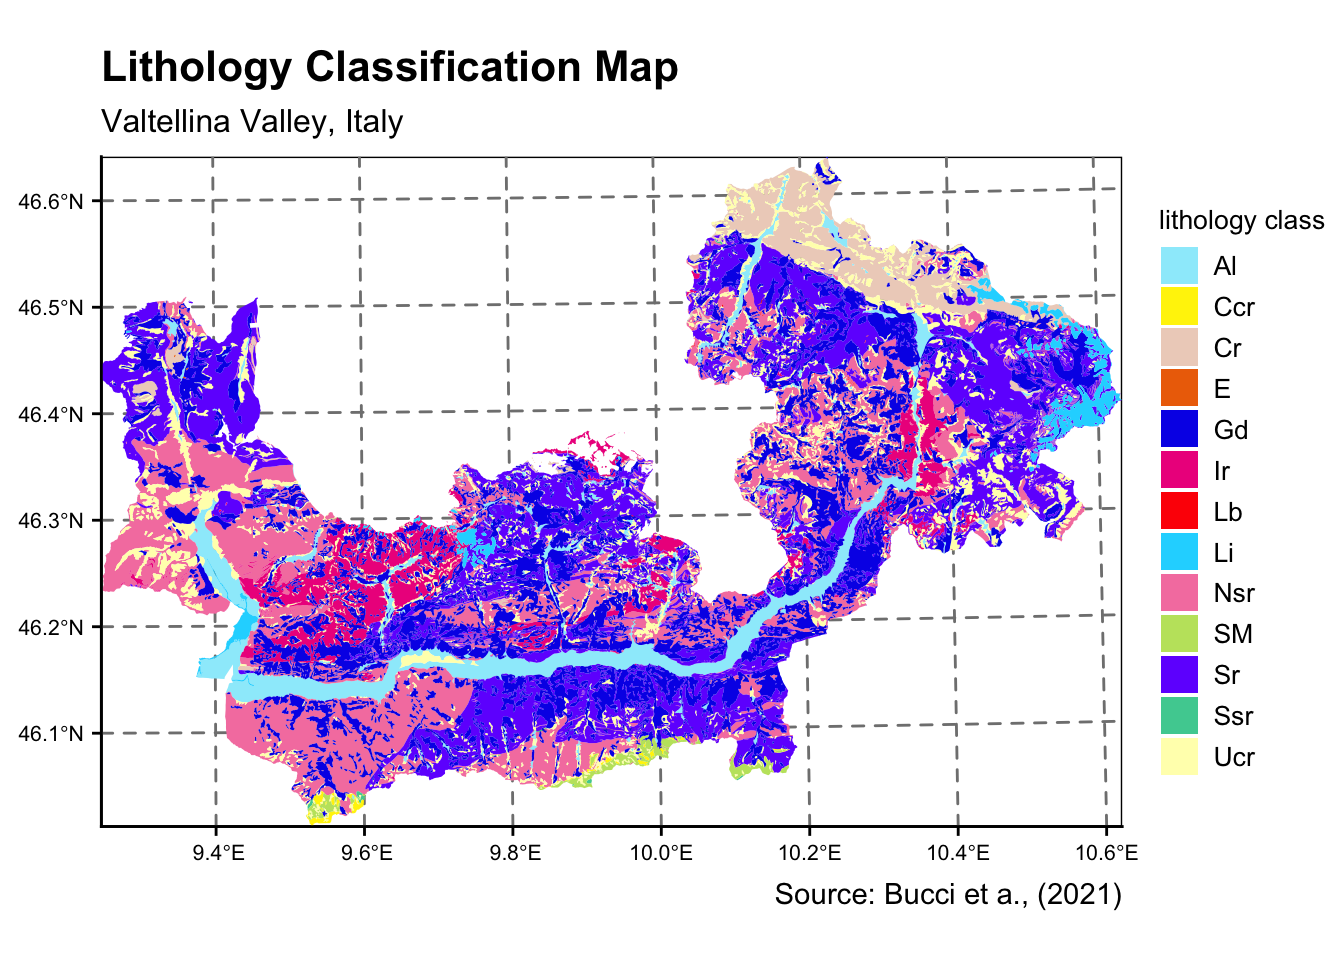
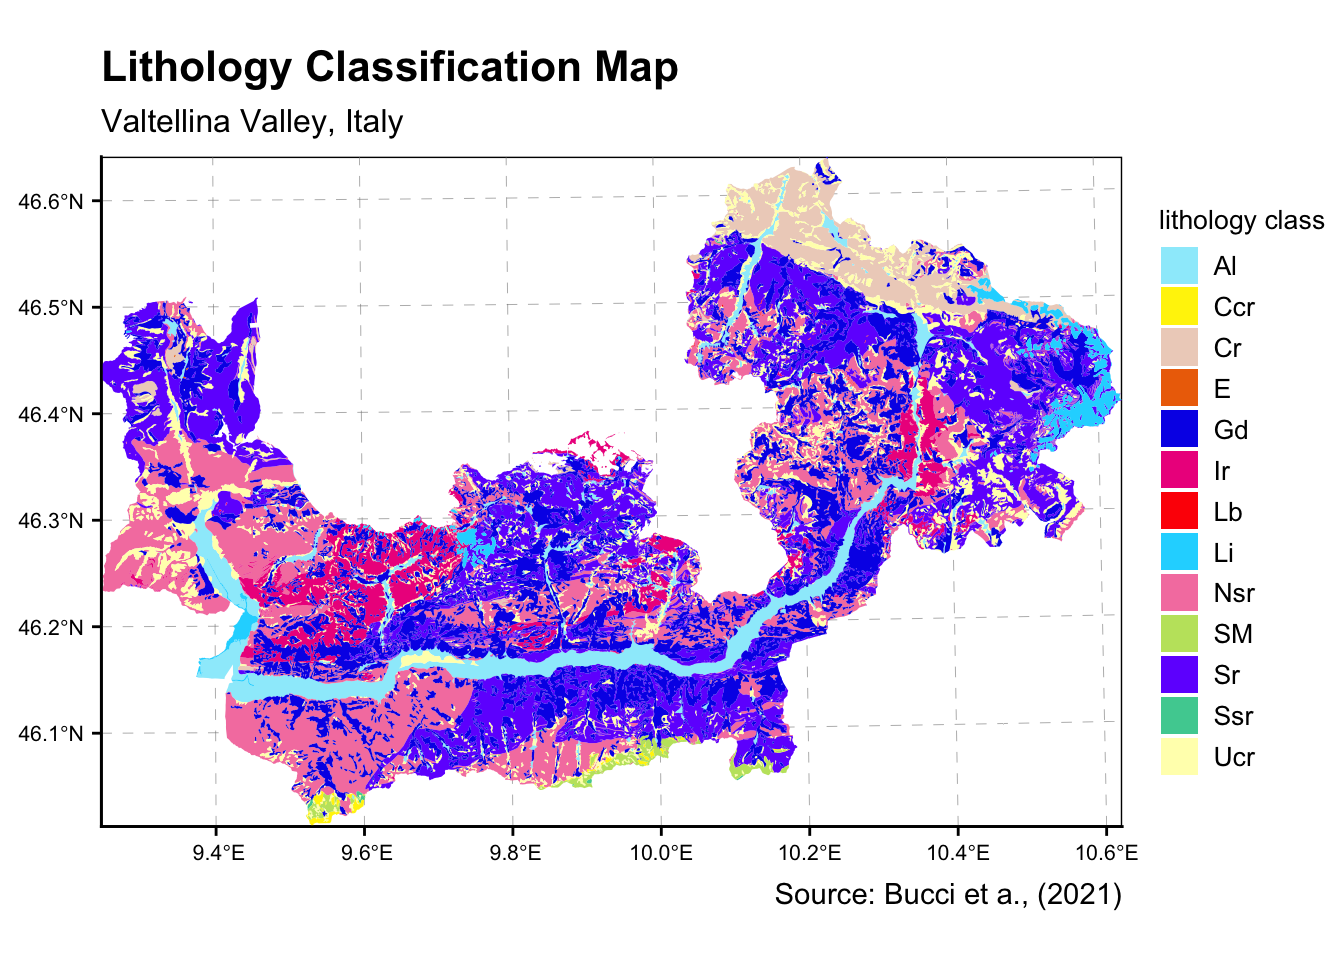
changed visualisation styles

diff --git a/_site/project.html b/_site/project.html
@@ -266,7 +266,7 @@ pre > code.sourceCode > span > a:first-child::before { text-decoration: underlin
 <span id="cb3-8"><a href="#cb3-8" aria-hidden="true" tabindex="-1"></a>  cowplot<span class="sc">::</span><span class="fu">theme_cowplot</span>()<span class="sc">+</span></span>
 <span id="cb3-9"><a href="#cb3-9" aria-hidden="true" tabindex="-1"></a>  <span class="fu">theme</span>(<span class="at">panel.grid.major =</span> <span class="fu">element_line</span>(<span class="at">color =</span> <span class="fu">gray</span>(.<span class="dv">5</span>),</span>
 <span id="cb3-10"><a href="#cb3-10" aria-hidden="true" tabindex="-1"></a>                                        <span class="at">linetype =</span> <span class="st">'dashed'</span>,</span>
-<span id="cb3-11"><a href="#cb3-11" aria-hidden="true" tabindex="-1"></a>                                        <span class="at">linewidth =</span> <span class="fl">0.5</span>),</span>
+<span id="cb3-11"><a href="#cb3-11" aria-hidden="true" tabindex="-1"></a>                                        <span class="at">linewidth =</span> <span class="fl">0.1</span>),</span>
 <span id="cb3-12"><a href="#cb3-12" aria-hidden="true" tabindex="-1"></a>        <span class="at">panel.grid.minor =</span> <span class="fu">element_blank</span>(),</span>
 <span id="cb3-13"><a href="#cb3-13" aria-hidden="true" tabindex="-1"></a>        <span class="at">panel.background =</span> <span class="fu">element_rect</span>(<span class="at">fill=</span><span class="cn">NA</span>,<span class="at">color =</span> <span class="st">'black'</span>),</span>
 <span id="cb3-14"><a href="#cb3-14" aria-hidden="true" tabindex="-1"></a>        <span class="at">panel.ontop =</span> <span class="cn">TRUE</span>,</span>
@@ -324,7 +324,7 @@ pre > code.sourceCode > span > a:first-child::before { text-decoration: underlin
 <span id="cb8-10"><a href="#cb8-10" aria-hidden="true" tabindex="-1"></a>  cowplot<span class="sc">::</span><span class="fu">theme_cowplot</span>()<span class="sc">+</span></span>
 <span id="cb8-11"><a href="#cb8-11" aria-hidden="true" tabindex="-1"></a>  <span class="fu">theme</span>(<span class="at">panel.grid.major =</span> <span class="fu">element_line</span>(<span class="at">color =</span> <span class="fu">gray</span>(.<span class="dv">5</span>),</span>
 <span id="cb8-12"><a href="#cb8-12" aria-hidden="true" tabindex="-1"></a>                                        <span class="at">linetype =</span> <span class="st">'dashed'</span>,</span>
-<span id="cb8-13"><a href="#cb8-13" aria-hidden="true" tabindex="-1"></a>                                        <span class="at">linewidth =</span> <span class="fl">0.2</span>),</span>
+<span id="cb8-13"><a href="#cb8-13" aria-hidden="true" tabindex="-1"></a>                                        <span class="at">linewidth =</span> <span class="fl">0.1</span>),</span>
 <span id="cb8-14"><a href="#cb8-14" aria-hidden="true" tabindex="-1"></a>        <span class="at">panel.grid.minor =</span> <span class="fu">element_blank</span>(),</span>
 <span id="cb8-15"><a href="#cb8-15" aria-hidden="true" tabindex="-1"></a>        <span class="at">panel.background =</span> <span class="fu">element_rect</span>(<span class="at">fill=</span><span class="cn">NA</span>,<span class="at">color =</span> <span class="st">'black'</span>),</span>
 <span id="cb8-16"><a href="#cb8-16" aria-hidden="true" tabindex="-1"></a>        <span class="at">panel.ontop =</span> <span class="cn">TRUE</span>,</span>
@@ -348,7 +348,7 @@ pre > code.sourceCode > span > a:first-child::before { text-decoration: underlin
 <span id="cb9-10"><a href="#cb9-10" aria-hidden="true" tabindex="-1"></a>  cowplot<span class="sc">::</span><span class="fu">theme_cowplot</span>()<span class="sc">+</span></span>
 <span id="cb9-11"><a href="#cb9-11" aria-hidden="true" tabindex="-1"></a>  <span class="fu">theme</span>(<span class="at">panel.grid.major =</span> <span class="fu">element_line</span>(<span class="at">color =</span> <span class="fu">gray</span>(.<span class="dv">5</span>),</span>
 <span id="cb9-12"><a href="#cb9-12" aria-hidden="true" tabindex="-1"></a>                                        <span class="at">linetype =</span> <span class="st">'dashed'</span>,</span>
-<span id="cb9-13"><a href="#cb9-13" aria-hidden="true" tabindex="-1"></a>                                        <span class="at">linewidth =</span> <span class="fl">0.5</span>),</span>
+<span id="cb9-13"><a href="#cb9-13" aria-hidden="true" tabindex="-1"></a>                                        <span class="at">linewidth =</span> <span class="fl">0.1</span>),</span>
 <span id="cb9-14"><a href="#cb9-14" aria-hidden="true" tabindex="-1"></a>        <span class="at">panel.grid.minor =</span> <span class="fu">element_blank</span>(),</span>
 <span id="cb9-15"><a href="#cb9-15" aria-hidden="true" tabindex="-1"></a>        <span class="at">panel.background =</span> <span class="fu">element_rect</span>(<span class="at">fill=</span><span class="cn">NA</span>,<span class="at">color =</span> <span class="st">'black'</span>),</span>
 <span id="cb9-16"><a href="#cb9-16" aria-hidden="true" tabindex="-1"></a>        <span class="at">panel.ontop =</span> <span class="cn">TRUE</span>,</span>
@@ -372,7 +372,7 @@ pre > code.sourceCode > span > a:first-child::before { text-decoration: underlin
 <span id="cb10-10"><a href="#cb10-10" aria-hidden="true" tabindex="-1"></a>  cowplot<span class="sc">::</span><span class="fu">theme_cowplot</span>()<span class="sc">+</span></span>
 <span id="cb10-11"><a href="#cb10-11" aria-hidden="true" tabindex="-1"></a>  <span class="fu">theme</span>(<span class="at">panel.grid.major =</span> <span class="fu">element_line</span>(<span class="at">color =</span> <span class="fu">gray</span>(.<span class="dv">5</span>),</span>
 <span id="cb10-12"><a href="#cb10-12" aria-hidden="true" tabindex="-1"></a>                                        <span class="at">linetype =</span> <span class="st">'dashed'</span>,</span>
-<span id="cb10-13"><a href="#cb10-13" aria-hidden="true" tabindex="-1"></a>                                        <span class="at">linewidth =</span> <span class="fl">0.5</span>),</span>
+<span id="cb10-13"><a href="#cb10-13" aria-hidden="true" tabindex="-1"></a>                                        <span class="at">linewidth =</span> <span class="fl">0.1</span>),</span>
 <span id="cb10-14"><a href="#cb10-14" aria-hidden="true" tabindex="-1"></a>        <span class="at">panel.grid.minor =</span> <span class="fu">element_blank</span>(),</span>
 <span id="cb10-15"><a href="#cb10-15" aria-hidden="true" tabindex="-1"></a>        <span class="at">panel.background =</span> <span class="fu">element_rect</span>(<span class="at">fill=</span><span class="cn">NA</span>,<span class="at">color =</span> <span class="st">'black'</span>),</span>
 <span id="cb10-16"><a href="#cb10-16" aria-hidden="true" tabindex="-1"></a>        <span class="at">panel.ontop =</span> <span class="cn">TRUE</span>,</span>
@@ -406,7 +406,7 @@ pre > code.sourceCode > span > a:first-child::before { text-decoration: underlin
 <span id="cb11-17"><a href="#cb11-17" aria-hidden="true" tabindex="-1"></a>  cowplot<span class="sc">::</span><span class="fu">theme_cowplot</span>()<span class="sc">+</span></span>
 <span id="cb11-18"><a href="#cb11-18" aria-hidden="true" tabindex="-1"></a>  <span class="fu">theme</span>(<span class="at">panel.grid.major =</span> <span class="fu">element_line</span>(<span class="at">color =</span> <span class="fu">gray</span>(.<span class="dv">5</span>),</span>
 <span id="cb11-19"><a href="#cb11-19" aria-hidden="true" tabindex="-1"></a>                                        <span class="at">linetype =</span> <span class="st">'dashed'</span>,</span>
-<span id="cb11-20"><a href="#cb11-20" aria-hidden="true" tabindex="-1"></a>                                        <span class="at">linewidth =</span> <span class="fl">0.5</span>),</span>
+<span id="cb11-20"><a href="#cb11-20" aria-hidden="true" tabindex="-1"></a>                                        <span class="at">linewidth =</span> <span class="fl">0.1</span>),</span>
 <span id="cb11-21"><a href="#cb11-21" aria-hidden="true" tabindex="-1"></a>        <span class="at">panel.grid.minor =</span> <span class="fu">element_blank</span>(),</span>
 <span id="cb11-22"><a href="#cb11-22" aria-hidden="true" tabindex="-1"></a>        <span class="at">panel.background =</span> <span class="fu">element_rect</span>(<span class="at">fill=</span><span class="cn">NA</span>,<span class="at">color =</span> <span class="st">'black'</span>),</span>
 <span id="cb11-23"><a href="#cb11-23" aria-hidden="true" tabindex="-1"></a>        <span class="at">panel.ontop =</span> <span class="cn">FALSE</span>,</span>
